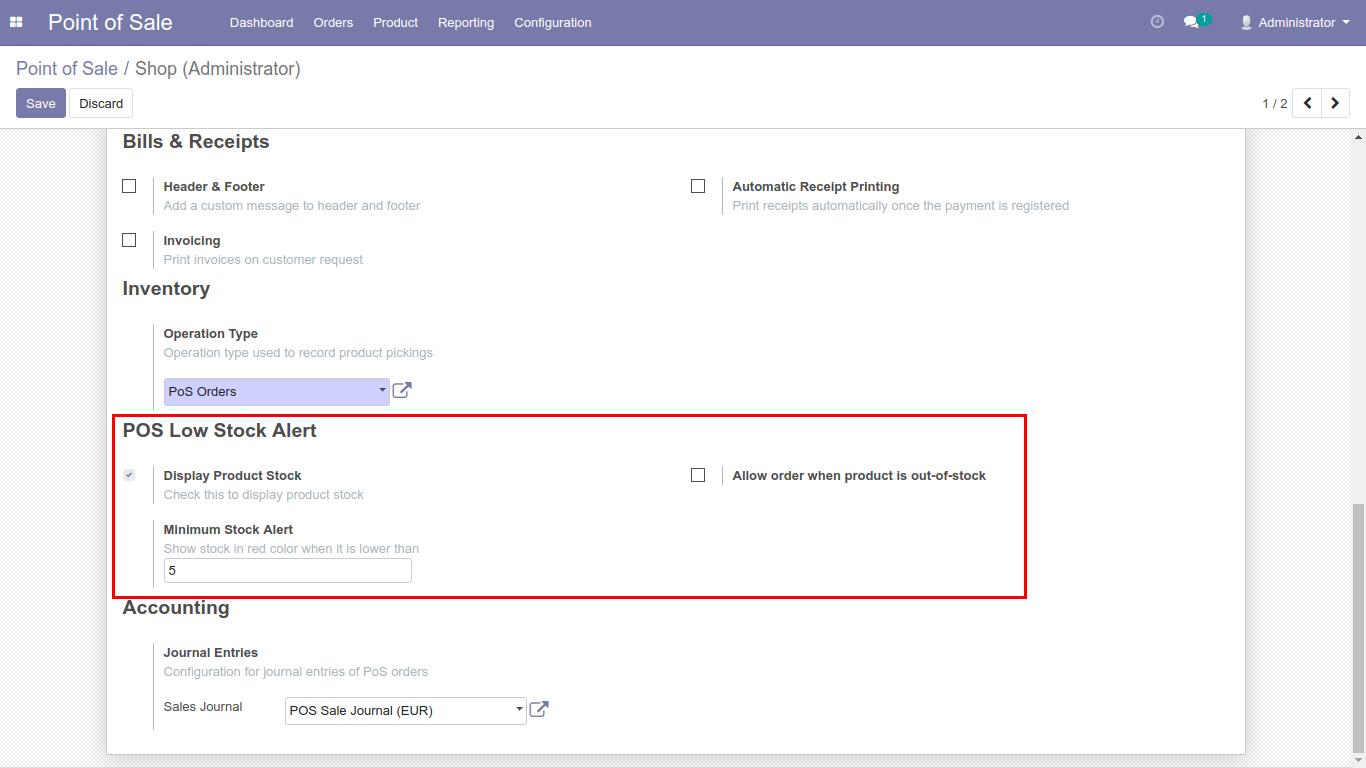
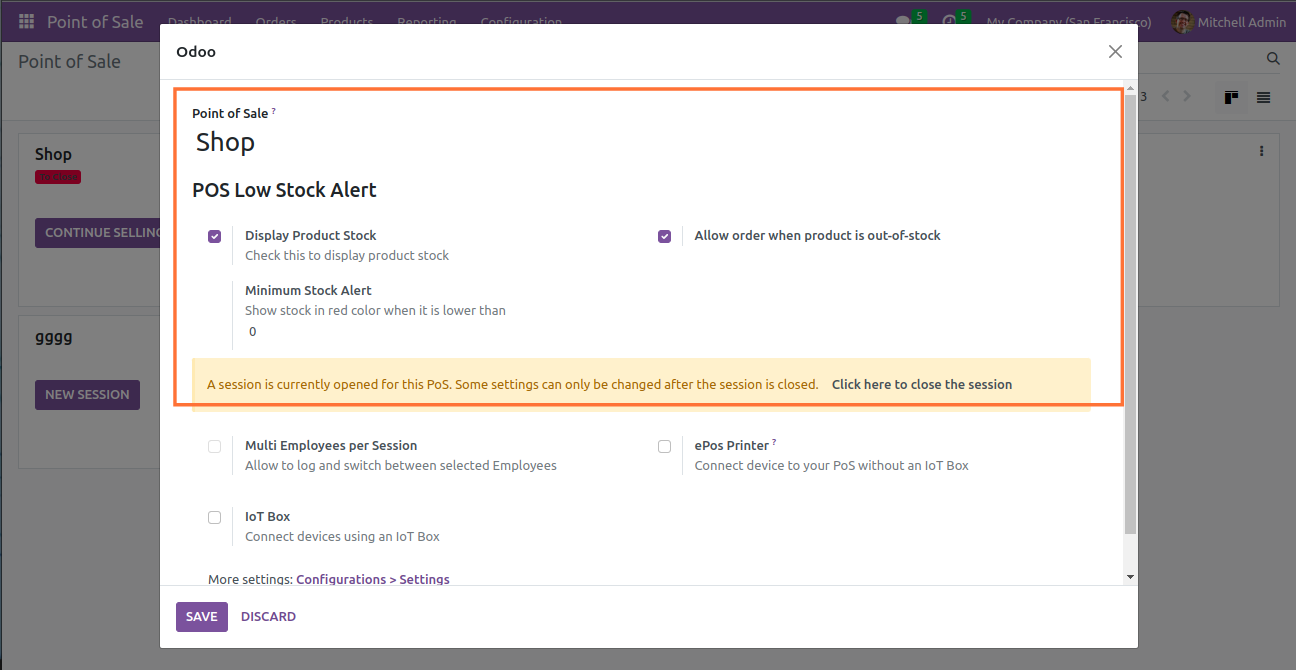
screenshot address update

diff --git a/ks_pos_low_stock_alert/static/description/index.html b/ks_pos_low_stock_alert/static/description/index.html
@@ -170,7 +170,7 @@
                                         the numerical value for Minimum Stock Alert.
                                     </div>
                                     <div class="pb-1">
-                                        <img src="images/app_screen/2.png" alt="" class="img-fluid">
+                                        <img src="images/app_screen/5.png" alt="" class="img-fluid">
                                     </div>
                                 </div>
                                 <div class="tab-pane" id="Advance2">
